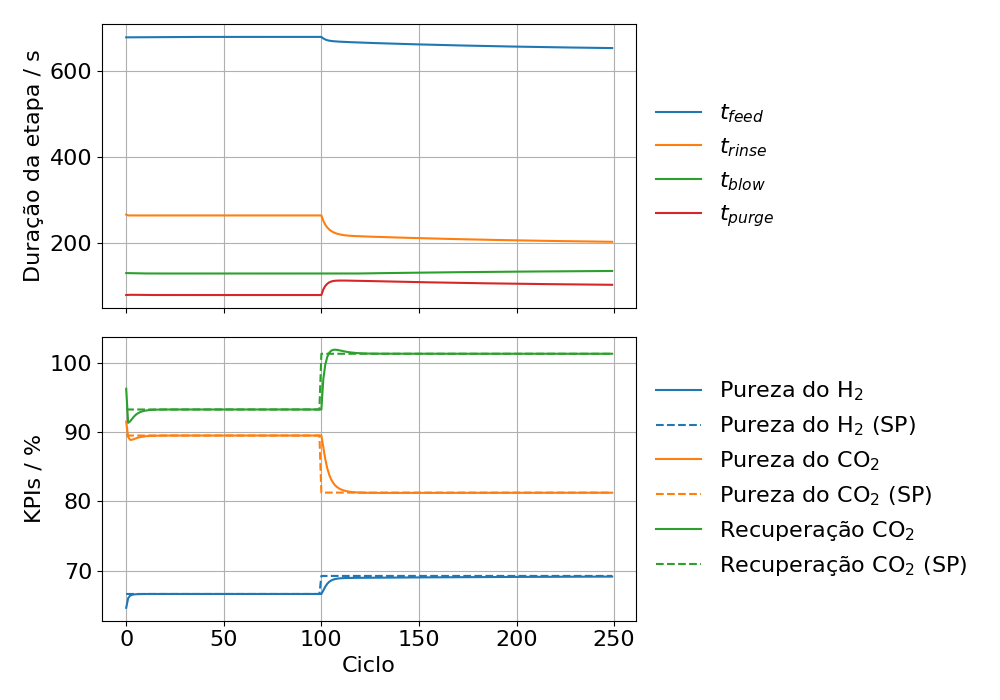
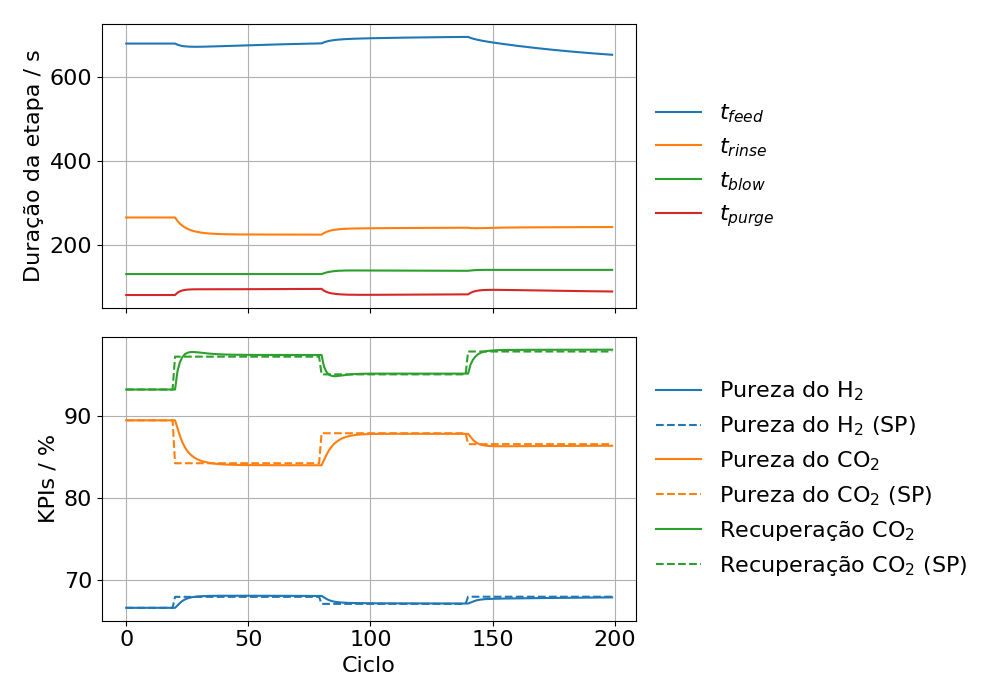
Add disturbances

diff --git a/src/MATLAB/IHMPC/ihmpc_slack.m b/src/MATLAB/IHMPC/ihmpc_slack.m
@@ -25,7 +25,7 @@ Gz = tf(sysd);
 
 
 [A,B,C,D0,Dd,F,Psi,N]=opom(Gz); % it creates opom model
-Ap=A; Bp=B; Cp=C;
+Ap=A*1.00; Bp=B*1.05; Cp=C;
 ny = size(C,1); % output variables of the system
 nu = size(B,2); % input variables of the system
 nx = size(A,1); % state variables of the system
@@ -34,11 +34,11 @@ nd = size(F,1); % states related to the stable pole of the system
 % parameters of the IHMPC
 sy = [1e3 1e3 1e3]; % weights of output slacks
 
-nsim = 250;      % simulation time
-m = 3;           % control horizon
+nsim = 200;      % simulation time
+m = 5;           % control horizon
 qy = [1 1 1];      % output weights
 qu = [];      % output weights
-r  = [1 1 1 1]; % move weights
+r  = [0.2 0.5 0.5 0.5]; % move weights
 
 umax=[715 265 140 115]' - u_ref; % maximum value for inputs
 umin=[600 187 130 80]' - u_ref; % minimum value for inputs
@@ -102,7 +102,7 @@ H = [(Dm0+Fu)'*Qybar*(Dm0+Fu)+Futil'*Qbar*Futil+Rbar -(Dm0+Fu)'*Qybar*Ibar
 % =========================================================================
 u0 = [0 0 0 0]';
 y0 = [0 0 0]';
-ysp=[0 0 0]';
+ysp= [0 0 0]';
 
 uk_1 = u0;
 
@@ -114,10 +114,14 @@ yspp=[];
 for in=1:nsim
 ur(:,in) = uk_1  ;
 yr(:,in) = ypk   ;
-    if in <= 100
-        ysp    = [0 0 0]'    ;
+    if in <= 20
+        ysp    = [0 0 0]';
+    elseif in <= 80
+        ysp    = [1.33809828 -5.23812909 4.01255568]';
+    elseif in <= 140
+        ysp    = [0.48037208 -1.57549281  1.85025552]';
     else
-        ysp    = [2.60473585 -8.24649468 8.04911466]'    ;
+        ysp    = [1.3533336 -2.90826548 4.64134915]';
     end
 cf = [(Ibar*xmk(1:ny)+Fx*xmk(ny+1:end)-Ibar*ysp)'*Qybar*Dm0+...
      (Ibar*xmk(1:ny)+Fx*xmk(ny+1:end)-Ibar*ysp)'*Qybar*Fu+(F^m*xmk(ny+1:end))'*Qbar*Futil ...

diff --git a/src/MATLAB/incremental/sim_issmpc.m b/src/MATLAB/incremental/sim_issmpc.m
@@ -22,7 +22,8 @@ Ctil = eye(3);
 [A,B,C]=immpc(Atil,Btil,Ctil);
 
 % Plant model
-Ap=A;Bp=B;Cp=C;
+Aptil=Atil*1.00; Bptil=Btil*1.05; Cptil=Ctil;
+[Ap,Bp,Cp]=immpc(Aptil,Bptil,Cptil);
 
 % Updating the dimensions of variables
 nu=size(B,2); % Number of manipulated inputs
@@ -31,11 +32,11 @@ nx=size(A,1); % Number of system states
 
 % tuning parameters of MPC
 p=120;% Output prediction horizon
-m=3;% Input horizon
-nsim=250;% Simulation time in sampling periods
+m=5;% Input horizon
+nsim=200;% Simulation time in sampling periods
 
 q=[1,1,1]   ; % Output weights
-r=[1,1,1,1] ; % Input moves weights
+r=[0.2 0.5 0.5 0.5] ; % Input moves weights
 umax=[715 265 140 115]' - u_ref; % maximum value for inputs
 umin=[600 187 130 80]' - u_ref; % minimum value for inputs
 dumax=[99999 99999 99999 99999]'; % maximum variation for input moves
@@ -45,10 +46,10 @@ uss = [0 0 0 0]';
 yss = [0 0 0]';
 
 %  Defining the initial conditions (deviation variables)
-xmk=[-2 2 3 -1 2 1 0]';
+xmk=[0 0 0 0 0 0 0]';
 xpk=xmk;
 ypk=Cp*xpk;
-uk_1=[-1 2 1 0]';
+uk_1=[0 0 0 0]';
 
 % Starting simulation
 ysp=[];
@@ -56,11 +57,16 @@ for in=1:nsim
     uk(:,in)=uk_1;
     yk(:,in)=ypk;
 
-    if in <= 100
-        ys=[0 0 0]'; % Set-point of the outputs
+    if in <= 20
+        ys    = [0 0 0]';
+    elseif in <= 80
+        ys    = [1.33809828 -5.23812909 4.01255568]';
+    elseif in <= 140
+        ys    = [0.48037208 -1.57549281  1.85025552]';
     else
-        ys=[2.60473585 -8.24649468 8.04911466]';
+        ys    = [1.3533336 -2.90826548 4.64134915]';
     end
+
 
     [dukk,Vk]=issmpc(p,m,nu,ny,q,r,A,B,C,umax,umin,dumax,ys,uk_1,xmk);
     duk=dukk(1:nu); % receding horizon

diff --git a/src/MATLAB/posicional/sim_ssmpc.m b/src/MATLAB/posicional/sim_ssmpc.m
@@ -21,14 +21,14 @@ B = [ -0.00726326 -0.01558     0.00369239  0.02208961
 
 C = eye(3);
 
-Ap=A; Bp=B; Cp=C; % defining plant model
+Ap=A*1.00; Bp=B*1.05; Cp=C; % defining plant model
 
 nx=size(A,1); % Number of system states
 p=120       ; % Output prediction horizon
-m=3         ; % Input horizon
-nsim=250    ; % Simulation time in sampling periods
+m=5         ; % Input horizon
+nsim=200    ; % Simulation time in sampling periods
 q=[1,1,1]   ; % Output weights
-r=[1,1,1,1] ; % Input moves weights
+r=[0.2 0.5 0.5 0.5] ; % Input moves weights
 umax=[715 265 140 115]' - u_ref; % maximum value for inputs
 umin=[600 187 130 80]' - u_ref; % minimum value for inputs
 dumax=[99999 99999 99999 99999]'; % maximum variation for input moves
@@ -37,13 +37,25 @@ uss = [0 0 0 0]'; % steady-state of the inputs
 yss = [0 0 0]'; % steady-state of the outputs
 
 % Setpoint
-ysp = zeros(ny,nsim);
-ys  = [2.60473585 -8.24649468 8.04911466]';% Set-point of the outputs
-ysp(:,101:end) = repmat(ys, 1, nsim-100);
+ysp = zeros(ny, nsim);
+
+for k = 1:nsim
+    if k <= 20
+        ys = [0; 0; 0];
+    elseif k <= 80
+        ys = [1.33809828; -5.23812909; 4.01255568];
+    elseif k <= 140
+        ys = [0.48037208; -1.57549281; 1.85025552];
+    else
+        ys = [1.3533336; -2.90826548; 4.64134915];
+    end
+
+    ysp(:,k) = ys;
+end
 
 % Initial condition
-u0 = [-1 2 1 0]';
-y0 = [-2 2 3]';
+u0 = [0 0 0 0]';
+y0 = [0 0 0]';
 [uk,yk,Jk]=ssmpc(p,m,nu,ny,nx,nsim,q,r,A,B,C,Ap,Bp,Cp,umax,umin,dumax,ys,uss,yss,y0,u0);
 
 nc=size(yk,1);

diff --git a/src/MATLAB/posicional/ssmpc.m b/src/MATLAB/posicional/ssmpc.m
@@ -104,10 +104,14 @@ end
 for in=1:nsim
     ur(:,in)=uk_1+uss;
     yr(:,in)=ypk+yss;
-    if in<= 100
-        ys=yss;
+    if in <= 20
+        ys = [0; 0; 0];
+    elseif in <= 80
+        ys = [1.33809828; -5.23812909; 4.01255568];
+    elseif in <= 140
+        ys = [0.48037208; -1.57549281; 1.85025552];
     else
-        ys=yspp;
+        ys = [1.3533336; -2.90826548; 4.64134915];
     end
     ysp=[];
     for i=1:p;
